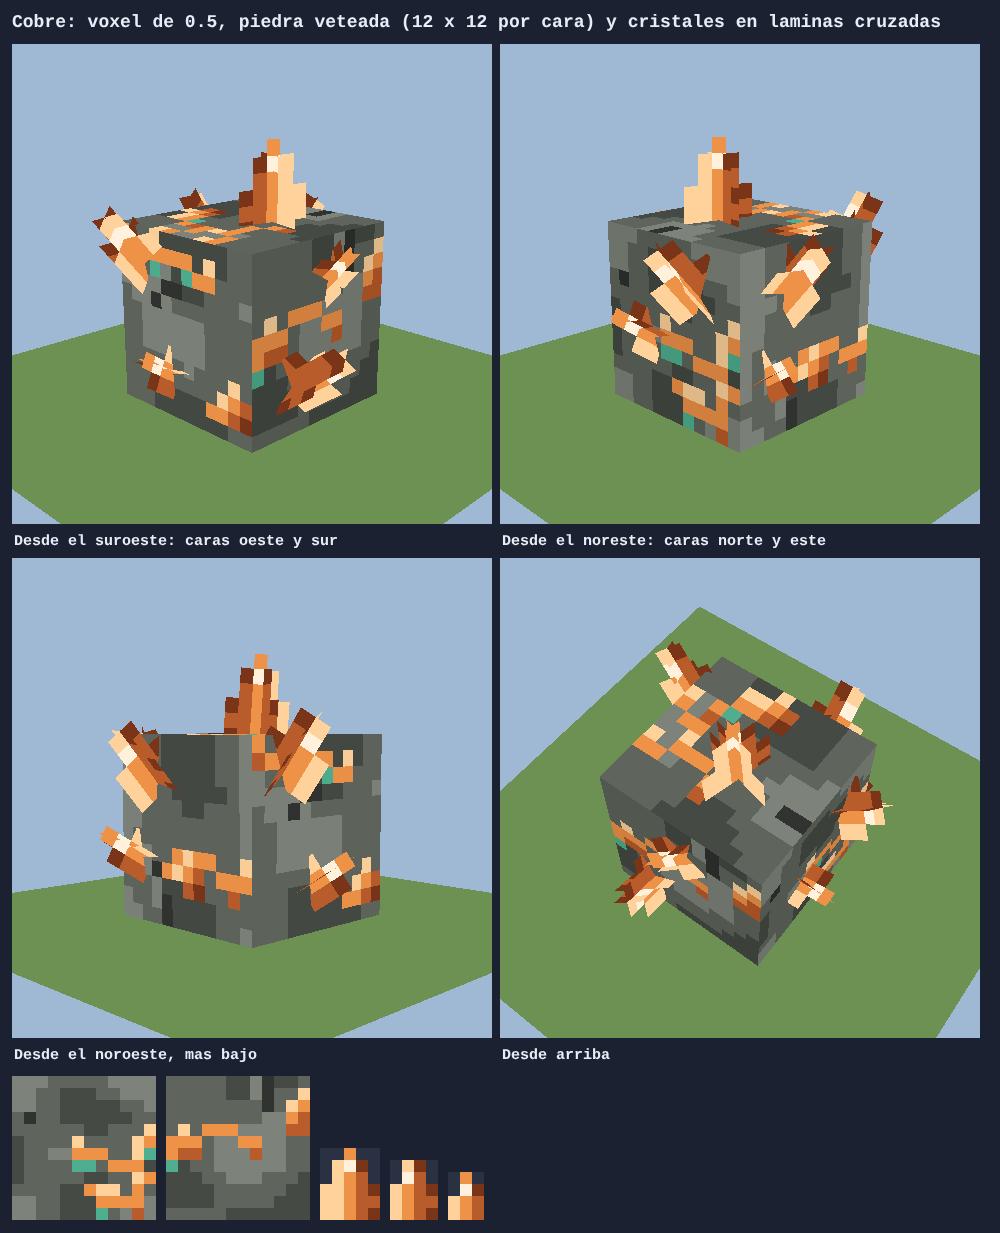
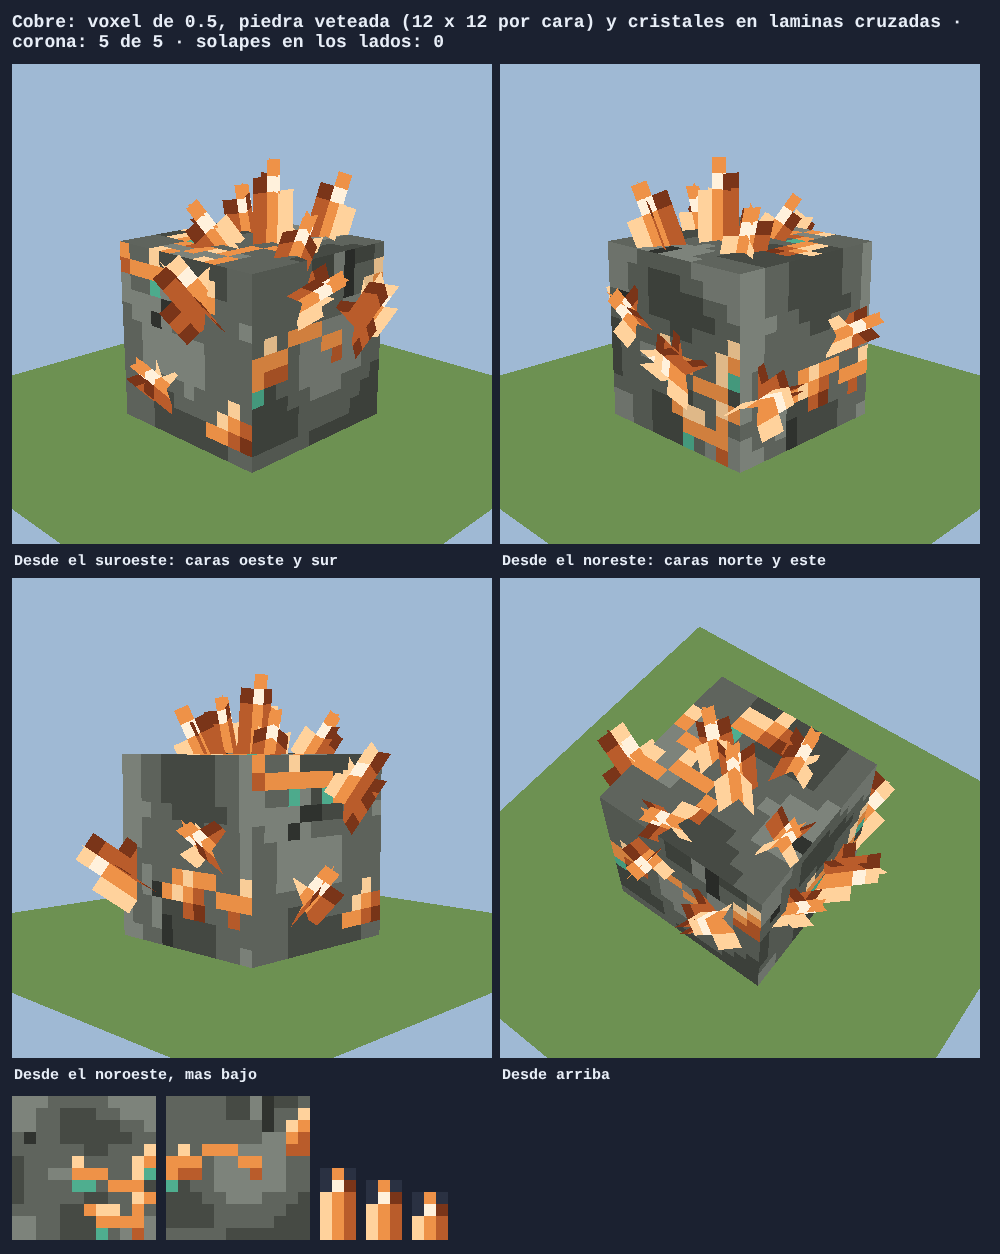
Boceto de minerales: la corona vuelve a tener su flor
La separacion minima entre bases superaba el radio del anillo, asi que
todos los petalos se descartaban en silencio. Cristales de 3 px en la
corona, hueco de 0,25/N, y cada sorteo cuenta lo que coloca.

Claude-Session: https://claude.ai/code/session_01XutUh4eVSdN6S6kRiv2aM4

diff --git a/docs/bocetos/minerales/index.html b/docs/bocetos/minerales/index.html
@@ -246,27 +246,38 @@ const DEG = Math.PI / 180;
  * 6. El centro de la flor se aparta del de la cara hasta 0,12 del lado.
  * 7. Las bases no se tocan (la regla de los costados).
  * 8. De 0 a 2 brotes sueltos de 3 pixeles, cerca del borde, fuera del anillo.
+ *
+ * **Todos de 3 pixeles de ancho, y en la corona las bases pueden quedar muy
+ * juntas** (sin tocarse: un cuarto de pixel entre ellas). Con el ancho y el
+ * margen de los costados, cada petalo tenia que quedar a 0,41 del centro, mas
+ * lejos que el anillo (0,20-0,35): no cabia ninguno y se saltaban sin avisar
+ * (el autor: «literalmente la flor ya no esta»). Ahora lo que no cabe se
+ * cuenta (`crownReport`) y la hoja lo dice.
  */
+const crownReport = { wanted: 0, placed: 0 };
 function voxelCrown() {
   const placed = []; // [x, z, media base], en fraccion del lado
+  const gap = 0.25 / N;
   const free = (x, z, half) =>
-    Math.abs(x) <= 0.44 && Math.abs(z) <= 0.44 && placed.every(([px, pz, ph]) => Math.hypot(x - px, z - pz) >= ph + half + 0.08);
+    Math.abs(x) <= 0.44 && Math.abs(z) <= 0.44 && placed.every(([px, pz, ph]) => Math.hypot(x - px, z - pz) >= ph + half + gap);
   const put = (x, z, w, h, axis, seed) => {
+    crownReport.placed++;
     placed.push([x, z, w / 2 / N]);
     addCrystal(new THREE.Vector3(x * S, S, z * S), axis, w, h, seed, r() * Math.PI);
   };
   const count = 5 + Math.floor(r() * 3);
+  crownReport.wanted = count;
   const off = r() * 0.12;
   const offAt = r() * 2 * Math.PI;
   const cx = Math.cos(offAt) * off;
   const cz = Math.sin(offAt) * off;
-  put(cx, cz, 5, 6, leaning(r() * 10 * DEG, r() * 2 * Math.PI), 100);
+  put(cx, cz, 3, 6, leaning(r() * 10 * DEG, r() * 2 * Math.PI), 100);
   const petals = count - 1;
   const start = r() * 2 * Math.PI;
   for (let i = 0; i < petals; i++) {
     const h = 3 + Math.floor(r() * 3);
-    const w = h >= 5 ? 4 : 3;
-    for (let t = 0; t < 30; t++) {
+    const w = 3;
+    for (let t = 0; t < 60; t++) {
       const at = start + (i * 2 * Math.PI) / petals + (r() - 0.5) * 30 * DEG;
       const rho = 0.2 + r() * 0.15;
       const x = cx + Math.cos(at) * rho;
@@ -279,6 +290,7 @@ function voxelCrown() {
     }
   }
   const buds = Math.floor(r() * 3);
+  crownReport.wanted += buds;
   for (let i = 0; i < buds; i++) {
     for (let t = 0; t < 40; t++) {
       // Cerca del borde: una de las cuatro orillas, entre 0,36 y 0,44 del centro.
@@ -324,18 +336,24 @@ const sides = [
  * distancia del otro que varia, **sin que sus bases se toquen nunca**: entre
  * sus pies queda al menos lo que miden sus dos medias bases mas un margen.
  */
+const sideReport = { overlaps: 0 };
 function voxelSide(n, at, k) {
   const center = at(0, 0.5);
   const placed = []; // [u, v, media base], en fraccion de la cara
   [[4, 5], [3, 4]].forEach(([w, h], i) => {
     const half = w / 2 / N;
-    let u = 0;
-    let v = 0.5;
+    // El primer sitio que cumple; si ninguno de los 80 cumple, el mas
+    // separado, y queda contado (`sideReport`): nunca se solapa en silencio.
+    const room = (u, v) => Math.min(Infinity, ...placed.map(([pu, pv, ph]) => Math.hypot(u - pu, v - pv) - ph - half - 0.08));
+    let best = null;
     for (let t = 0; t < 80; t++) {
-      u = -0.38 + r() * 0.76;
-      v = 0.18 + r() * 0.64;
-      if (placed.every(([pu, pv, ph]) => Math.hypot(u - pu, v - pv) >= ph + half + 0.08)) break;
+      const cand = [-0.38 + r() * 0.76, 0.18 + r() * 0.64];
+      const slack = room(...cand);
+      if (!best || slack > best.slack) best = { u: cand[0], v: cand[1], slack };
+      if (slack >= 0) break;
     }
+    const { u, v } = best;
+    if (best.slack < 0) sideReport.overlaps++;
     placed.push([u, v, half]);
     const base = at(u, v);
     // El arco, en horizontal: hacia el centro de la cara (-u) o hacia su borde.
@@ -382,6 +400,12 @@ const views = [
 ];
 const out = document.getElementById('out');
 document.getElementById('title').textContent = `${M.name}: ${small ? `voxel de ${S}` : 'bloque'}, piedra veteada (${N} x ${N} por cara) y cristales en laminas cruzadas`;
+// Lo que se pidio y lo que se puso, para que nada falte sin que se vea.
+if (small) {
+  document.body.dataset.corona = `${crownReport.placed} de ${crownReport.wanted}`;
+  document.body.dataset.solapes = String(sideReport.overlaps);
+  document.getElementById('title').textContent += ` · corona: ${crownReport.placed} de ${crownReport.wanted} · solapes en los lados: ${sideReport.overlaps}`;
+}
 const only = params.get('vistas')?.split(',').map(Number);
 for (const [label, x, z, y] of views.filter((_, i) => !only || only.includes(i))) {
   const d = 4.6 * S;

diff --git a/docs/pendiente.md b/docs/pendiente.md
@@ -134,6 +134,18 @@ Pidio solo un ejemplo, sin tocar el juego, para el cobre y el carbon.
   hasta 0,12 del lado fuera del de la cara; las bases sin tocarse; y de 0 a 2
   brotes de 3 pixeles cerca del borde. La hoja `coronas-*.png` ensena seis
   sorteos de cada mineral (`?semilla=`). **Esperando al autor.**
+- **El fallo de la primera hoja de coronas** («literalmente la flor ya no
+  esta»): la distancia minima entre bases (0,41 del lado, con cristales de 4
+  a 5 pixeles de ancho) era mayor que el radio del anillo (0,20-0,35), asi
+  que cada petalo agotaba sus intentos y se **descartaba en silencio**, y yo
+  mande las fotos sin contarlos. Arreglo: los cristales de la corona miden 3
+  pixeles de ancho, el hueco entre bases es 0,25/N (que no se toquen), 60
+  intentos por petalo, y **nada se descarta sin decirlo**: cada sorteo
+  ensena «corona X de Y» y los solapes de los lados (el titulo de la pagina,
+  `data-corona` y `data-solapes`). Tras el arreglo, dos de los doce sorteos
+  ponen un cristal menos de los pedidos (6 de 7 y 8 de 9). Los costados
+  tenian el mismo riesgo latente: ahora se quedan con la mejor de 80 tiradas
+  y cuentan los solapes (0 en todos).
 - Lo que elegi yo (*por confirmar*): la piedra gris verdosa, los colores de
   cada mineral (y el cardenillo en las vetas del cobre), cuantos cristales y
   donde, su forma (prisma en punta con su cara de luz y su brillo).
